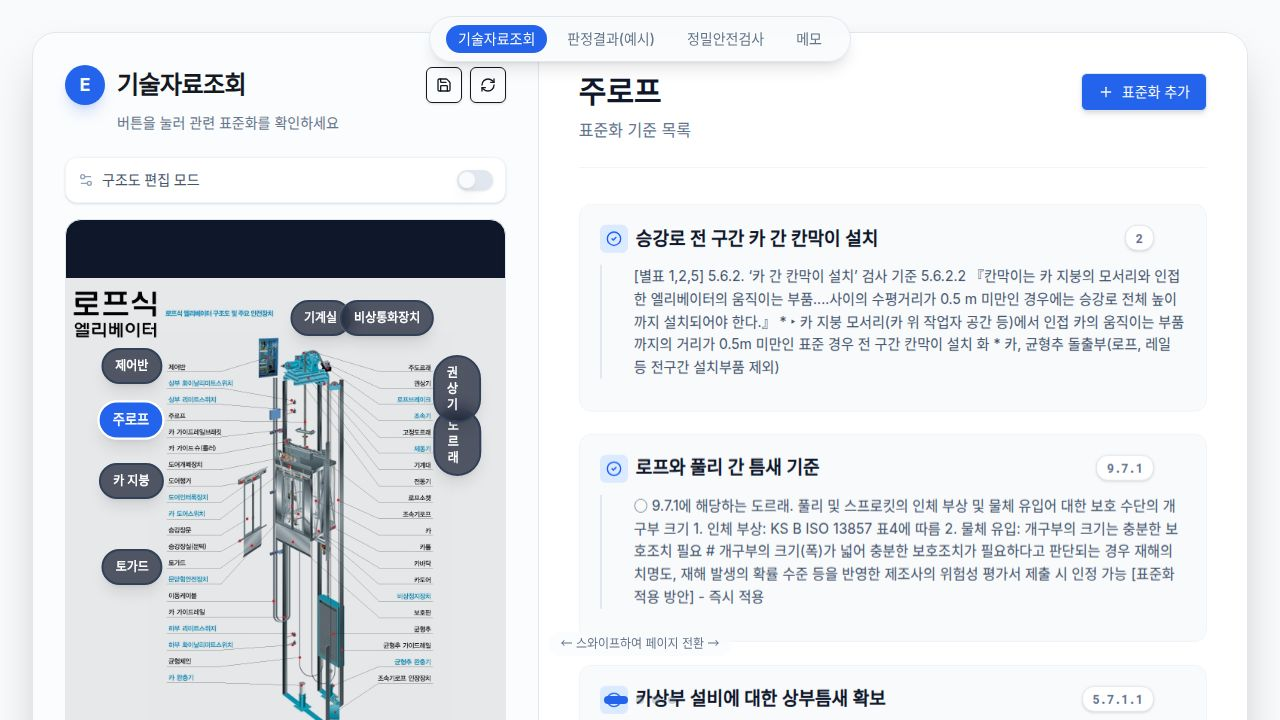
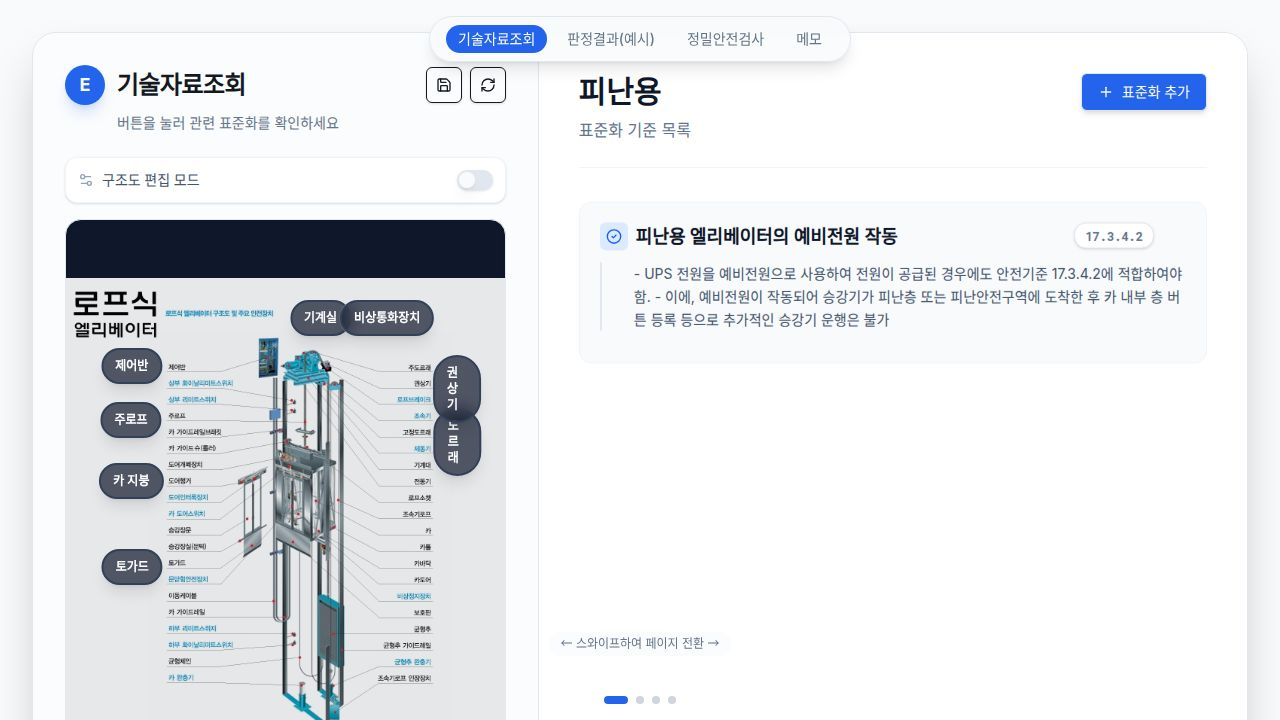
Add visual indicators for draggable button drop positions
Introduce a state variable `isDragging` and a grid of blue dots to visually represent possible drop positions for draggable buttons when in edit mode. The grid dynamically appears and disappears based on the dragging state, enhancing user experience for repositioning elements. Modifications are made in `client/src/pages/home.tsx` to implement this functionality, including event handlers for drag start and end to manage the `isDragging` state.

Replit-Commit-Author: Agent
Replit-Commit-Session-Id: 3319dbb9-3850-4929-a45c-e9787be34d76
Replit-Commit-Checkpoint-Type: full_checkpoint
Replit-Commit-Event-Id: 698dd185-4394-4932-b2b1-9b6d963c1a3e
Replit-Commit-Screenshot-Url: https://storage.googleapis.com/screenshot-production-us-central1/716f116c-b55f-4b8d-924a-f191a57abe1a/3319dbb9-3850-4929-a45c-e9787be34d76/bO5BzGx

diff --git a/client/src/pages/home.tsx b/client/src/pages/home.tsx
@@ -349,6 +349,7 @@ export default function Home() {
   
   const [editingButtonId, setEditingButtonId] = useState<number | null>(null);
   const [pendingButtonPos, setPendingButtonPos] = useState<{top: string, left: string} | null>(null);
+  const [isDragging, setIsDragging] = useState(false);
   const [isPasswordDialogOpen, setIsPasswordDialogOpen] = useState(false);
   const [adminPassword, setAdminPassword] = useState("");
   
@@ -819,12 +820,38 @@ export default function Home() {
               />
               
               {/* Buttons (formerly Hotspots) */}
+              {/* Drop position grid - shown when dragging in edit mode */}
+              {isEditMode && isDragging && (
+                <div className="absolute inset-0 pointer-events-none z-5">
+                  {Array.from({ length: 50 }, (_, row) => (
+                    Array.from({ length: 40 }, (_, col) => {
+                      const top = 2 + (row * 96 / 49);
+                      const left = 2 + (col * 96 / 39);
+                      return (
+                        <div
+                          key={`grid-${row}-${col}`}
+                          className="absolute w-1.5 h-1.5 rounded-full bg-blue-400/60 transform -translate-x-1/2 -translate-y-1/2"
+                          style={{ 
+                            top: `${top}%`, 
+                            left: `${left}%`
+                          }}
+                        />
+                      );
+                    })
+                  )).flat()}
+                </div>
+              )}
+
               {hotspots.map(hotspot => (
                 <motion.div
                   key={`${hotspot.id}-${hotspot.top}-${hotspot.left}`}
                   drag={isEditMode}
                   dragMomentum={false}
-                  onDragEnd={(_, info) => handleDragEnd(hotspot.id, info)}
+                  onDragStart={() => setIsDragging(true)}
+                  onDragEnd={(_, info) => {
+                    setIsDragging(false);
+                    handleDragEnd(hotspot.id, info);
+                  }}
                   className={cn(
                     "absolute transform -translate-x-1/2 -translate-y-1/2 z-10",
                     isEditMode ? "cursor-move" : "cursor-pointer"
